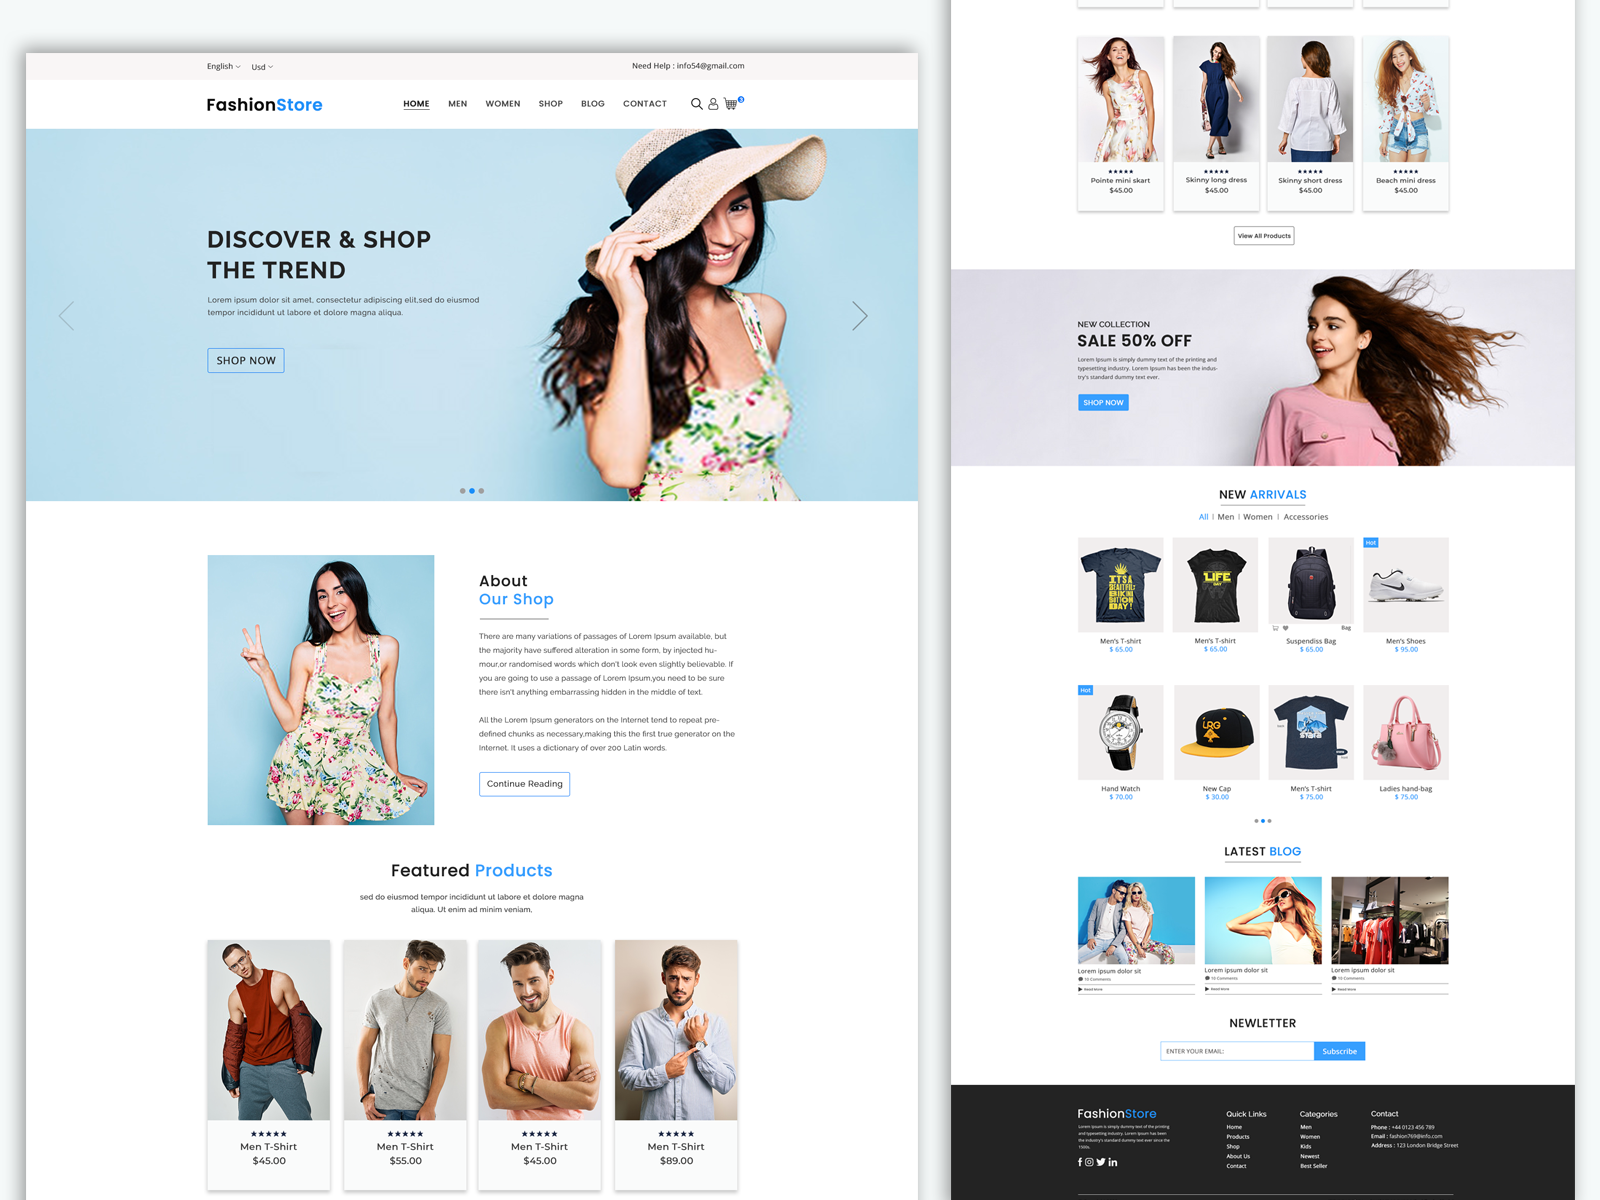
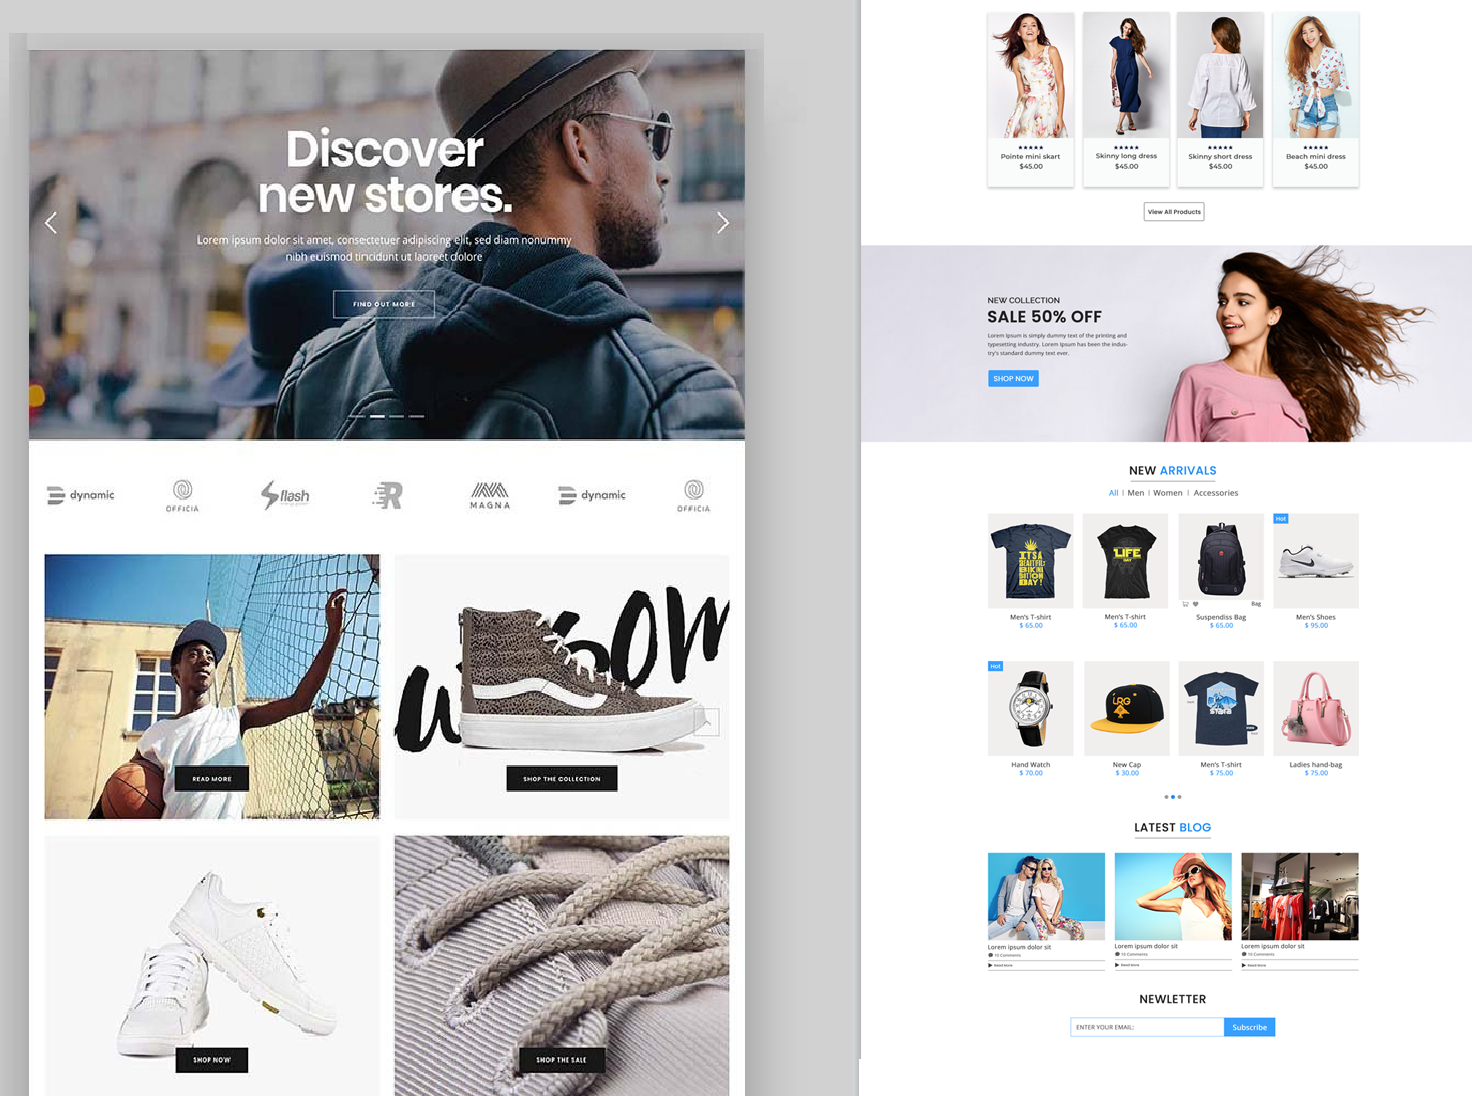
replaced the original image on home page

diff --git a/ecommerce/templates/home.html b/ecommerce/templates/home.html
@@ -8,7 +8,7 @@
     <meta name="keywords" content="Ogani, unica, creative, html">
     <meta name="viewport" content="width=device-width, initial-scale=1.0">
     <meta http-equiv="X-UA-Compatible" content="ie=edge">
-    <title> Welcome to E-shopping | Home</title>
+    <title>Welcome to E-shopping | Home</title>
 
     <!-- Google Font -->    
     <link href="https://fonts.googleapis.com/css2?family=Cairo:wght@200;300;400;600;900&display=swap" rel="stylesheet">
@@ -198,13 +198,9 @@
 <!--&lt;!&ndash;                            </div>&ndash;&gt;-->
 <!--                        </div>-->
                     </div>
-                    <div class="hero__item set-bg" data-setbg="/media/images/img/hero/banner.png">
-                        <div class="hero__text">
-                            <span>NEW PRODUCTS</span>
-                            <h2> <br />Help YourSelf</h2>
-                            <p>Free Pickup and Delivery Available</p>
-                            <a href="{% url 'allproducts' %}" class="primary-btn">SHOP NOW</a>
-                        </div>
+                    <!-- <div class="hero__item set-bg" data-setbg="/media/images/img/hero/banner.png"></div> -->
+                    <div class="portrait">
+                        <img src="/media/images/img/hero/banner.png">
                     </div>
                 </div>
             </div>
